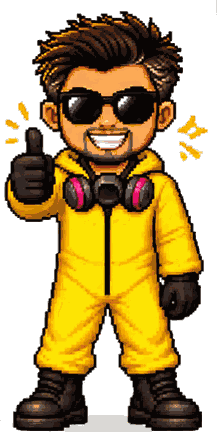
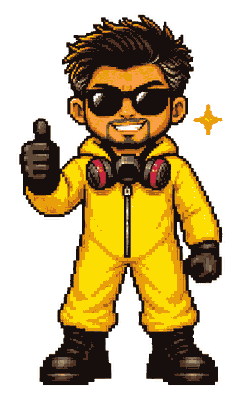
Add files via upload

diff --git a/Portfolio/game.js b/Portfolio/game.js
@@ -17,6 +17,7 @@
   let mouseX = -999;
   let mouseY = -999;
   let ammoLeft = 0;
+  let roundWon = false;
   let animInterval = null;
   let idleTimeout = null;
   let bubbleTimeout = null;
@@ -219,17 +220,29 @@
   // Real per-frame timing extracted from the source animation, for authentic playback.
   const ANGER_DURATIONS = [380,70,70,70,70,70,70,80,80,80,80,80,80,70,50,50,50,50,50,50,50,50,50,50,40,40,60,60,60,60,60,60,60,60,60,60,220,110,110,110,110,110,110,110,110,420,180,280];
   const ANGER_FRAME_COUNT = 48;
+  const THUMBSUP_DURATIONS = [600,110,140,160,70,90,90,420,130,90,500,120,110,400];
+  const THUMBSUP_FRAME_COUNT = 14;
 
   // Persistent header animation: a looping "please help me" nudge toward the game,
   // running whenever nothing more important (a kill, out-of-ammo, victory) is happening.
   function startIdleAngerLoop() {
     function cycle() {
+      showAvatarBubble("I hate bugs on website");
       playExpressionAnimation('anger', ANGER_FRAME_COUNT, ANGER_DURATIONS, () => {
-        showAvatarBubble("I hate bugs on website");
         idleTimeout = setTimeout(() => {
           showAvatarBubble("Help me get rid of them");
           idleTimeout = setTimeout(cycle, 5000);
         }, 5000);
+      });
+    }
+    cycle();
+  }
+
+  function startVictoryLoop() {
+    function cycle() {
+      showAvatarBubble("All bugs squashed — still looking fly!");
+      playExpressionAnimation('thumbsup', THUMBSUP_FRAME_COUNT, THUMBSUP_DURATIONS, () => {
+        idleTimeout = setTimeout(cycle, 3500);
       });
     }
     cycle();
@@ -246,8 +259,8 @@
     msg.textContent = "🎯 Pest control complete. The tiles are safe again.";
     document.body.appendChild(msg);
     setTimeout(() => { msg.style.opacity = '0'; setTimeout(() => msg.remove(), 600); }, 3500);
-    showAvatarBubble("Mission de-bugged!", 1800);
-    playExpressionAnimation('thumbsup', 8, 200, () => startIdleAngerLoop());
+    roundWon = true;
+    startVictoryLoop();
   }
 
   function killBug(bug) {
@@ -266,11 +279,6 @@
 
     bug.el.classList.add('is-dead');
     if (cursor) cursor.classList.remove('is-hovering');
-
-    if (killCount < BUG_COUNT) {
-      setAvatarExpression('thumbsup');
-      setTimeout(() => startIdleAngerLoop(), 700);
-    }
 
     setTimeout(() => {
       bug.el.remove();
@@ -296,18 +304,20 @@
     label.textContent = ammoLeft > 0 ? `🐞 Bug Hunt · ${ammoLeft} shots` : '🐞 Out of ammo!';
   }
 
+  // Out of ammo: just a plain notice. No special animation — the default angry idle
+  // loop keeps running in the background exactly as always. Only a manual toggle
+  // off/on restarts the round with fresh ammo.
   function showOutOfAmmoMessage() {
     const msg = document.createElement('div');
     msg.className = 'bugs-cleared-toast';
     msg.textContent = "🔫 Out of ammo! Toggle off and on to reload.";
     document.body.appendChild(msg);
     setTimeout(() => { msg.style.opacity = '0'; setTimeout(() => msg.remove(), 600); }, 3000);
-    showAvatarBubble("This really BUGS me!", 1800);
-    playExpressionAnimation('anger', ANGER_FRAME_COUNT, ANGER_DURATIONS, () => startIdleAngerLoop());
   }
 
   function onClick(e) {
     if (e.target.closest('a, button, .btn, .work-card, .bug-toggle, .nav')) return;
+    if (roundWon) return;
     if (ammoLeft <= 0) { showOutOfAmmoMessage(); return; }
 
     ammoLeft--;
@@ -384,6 +394,7 @@
     document.querySelectorAll('.blood-splat').forEach((el) => el.remove());
     killCount = 0;
     ammoLeft = MAX_AMMO;
+    roundWon = false;
 
     createCursor();
     const slots = shuffledSlots();
@@ -406,13 +417,26 @@
   }
 
   // ---------- Toggle switch (top right) ----------
-  function buildToggle() {
+  const STORAGE_KEY = 'bugHuntOn';
+  function loadSavedPreference() {
+    try {
+      const saved = localStorage.getItem(STORAGE_KEY);
+      return saved === null ? true : saved === '1'; // default ON for first-ever visit
+    } catch (e) {
+      return true; // localStorage unavailable (privacy mode, etc.) — just default ON
+    }
+  }
+  function savePreference(on) {
+    try { localStorage.setItem(STORAGE_KEY, on ? '1' : '0'); } catch (e) { /* ignore */ }
+  }
+
+  function buildToggle(initialOn) {
     const wrap = document.createElement('div');
-    wrap.className = 'bug-toggle';
+    wrap.className = 'bug-toggle' + (initialOn ? '' : ' is-off');
     wrap.title = 'Warning: contains mildly violent cartoon ladybugs';
     wrap.innerHTML = `
       <span class="bug-toggle-label">🐞 Bug Hunt</span>
-      <button class="bug-toggle-switch" aria-pressed="false"><span class="knob"></span></button>
+      <button class="bug-toggle-switch" aria-pressed="${initialOn}"><span class="knob"></span></button>
     `;
     document.body.appendChild(wrap);
     const btn = wrap.querySelector('.bug-toggle-switch');
@@ -420,6 +444,7 @@
       gameOn = !gameOn;
       btn.setAttribute('aria-pressed', String(gameOn));
       wrap.classList.toggle('is-off', !gameOn);
+      savePreference(gameOn);
       if (gameOn) startGame(); else stopGame();
     });
 
@@ -435,9 +460,13 @@
     document.body.appendChild(hint);
   }
 
-  buildToggle();
-  // Start OFF by default? No — matches the earlier "cursor active as soon as mouse enters" request.
-  gameOn = true;
-  document.querySelector('.bug-toggle-switch').setAttribute('aria-pressed', 'true');
-  startGame();
+  // Respect whatever the user last chose, on any page — instead of always defaulting back to ON.
+  gameOn = loadSavedPreference();
+  buildToggle(gameOn);
+  if (gameOn) {
+    startGame();
+  } else {
+    const avatar = document.getElementById('hero-avatar');
+    if (avatar) avatar.src = 'assets/avatar-neutral.png';
+  }
 })();

diff --git a/Portfolio/index.html b/Portfolio/index.html
@@ -242,6 +242,6 @@
   revealEls.forEach(el => observer.observe(el));
 </script>
 
-<script src="game.js?v=11"></script>
+<script src="game.js?v=14"></script>
 </body>
 </html>

diff --git a/Portfolio/bharatpe.html b/Portfolio/bharatpe.html
@@ -180,6 +180,6 @@
   </div>
 </footer>
 
-<script src="game.js?v=11"></script>
+<script src="game.js?v=14"></script>
 </body>
 </html>

diff --git a/Portfolio/lobby.html b/Portfolio/lobby.html
@@ -234,6 +234,6 @@
   </div>
 </footer>
 
-<script src="game.js?v=11"></script>
+<script src="game.js?v=14"></script>
 </body>
 </html>

diff --git a/Portfolio/poker.html b/Portfolio/poker.html
@@ -221,6 +221,6 @@
   </div>
 </footer>
 
-<script src="game.js?v=11"></script>
+<script src="game.js?v=14"></script>
 </body>
 </html>

diff --git a/Portfolio/rafflee.html b/Portfolio/rafflee.html
@@ -176,6 +176,6 @@
   </div>
 </footer>
 
-<script src="game.js?v=11"></script>
+<script src="game.js?v=14"></script>
 </body>
 </html>

diff --git a/Portfolio/showcase.html b/Portfolio/showcase.html
@@ -177,6 +177,6 @@
   </div>
 </footer>
 
-<script src="game.js?v=11"></script>
+<script src="game.js?v=14"></script>
 </body>
 </html>
